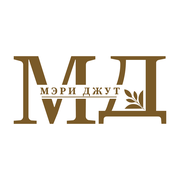
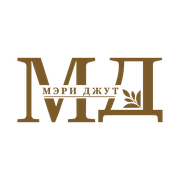
Let the admin mark a product as made to order or remove it.
In-stock items stay unmarked. A made-to-order item gets a badge on its card. The favicon is the logo with no background, and the about photo uses the new file.

Changed region(s): [[0.0556, 0.3056, 0.9444, 0.6944]]

diff --git a/src/components/site.tsx b/src/components/site.tsx
@@ -199,12 +199,12 @@ function ProductCard({ product = products[0] }: { product?: CatalogProduct }) {
     <article className={`product-card${soon ? " soon" : ""}`}>
       <Link href={href} className="product-image">
         <Image src={product.image} alt={product.name} fill sizes="(max-width: 700px) 50vw, 25vw" unoptimized />
-        {soon && <span className="product-badge">Скоро</span>}
+        {soon ? <span className="product-badge">Скоро</span> : product.onOrder ? <span className="product-badge order">Под заказ</span> : null}
       </Link>
       <button className={`heart ${liked ? "active" : ""}`} onClick={() => toggleFavorite({ id: product.id, name: product.name, price, image: product.image })} aria-label="Добавить в избранное" aria-pressed={liked}><Heart /></button>
       <div className="product-copy">
         <Link href={href}><h3>{product.name}</h3></Link>
-        <p>{soon ? "Коллекция готовится к публикации" : "Натуральный джут · в наличии"}</p>
+        <p>{soon ? "Коллекция готовится к публикации" : product.onOrder ? "Натуральный джут · под заказ" : "Натуральный джут · в наличии"}</p>
         <div className="product-bottom">
           {soon ? <strong>Скоро в каталоге</strong> : <strong>{formatPrice(price)}</strong>}
           {!soon && <button onClick={() => { addToCart(toCartItem(product)); setAdded(true); }}><span>{added ? "Добавлено" : "В корзину"}</span><ShoppingBag /></button>}
@@ -290,10 +290,7 @@ export function HomePage() {
         </div>
       </section>
       <section className="shell promo">
-        <picture className="cover-photo">
-          <source media="(max-width: 900px)" srcSet="/images/workshop.jpg" />
-          <img src="/images/workshop-desktop.jpg" alt="Пошив ковра из джутового каната" />
-        </picture>
+        <Image src="/images/workshop.png" alt="Пошив ковра из джутового каната" fill sizes="100vw" unoptimized />
         <div><small>За кулисами производства</small><p>Наши изделия рождаются<br />с любовью к деталям</p><span>Посмотрите, как создаётся натуральный уют</span><Button variant="secondary" render={<Link href="/about" />}>Смотреть историю <ArrowRight /></Button></div>
         <Link className="play-button" href="/about" aria-label="Смотреть историю компании">▶</Link>
       </section>
@@ -550,6 +547,7 @@ export function ProductPage({ slug }: { slug: string }) {
         <div className="gallery">
           <div className="main-image">
             <Image src={image} alt={product.name} fill priority sizes="(max-width: 700px) 100vw, 520px" unoptimized />
+            {!comingSoon && product.onOrder && <span className="product-badge order">Под заказ</span>}
             {gallery.length > 1 && (
               <>
                 <button type="button" className="gallery-nav prev" onClick={() => setImageIndex((gallery.length + imageIndex - 1) % gallery.length)} aria-label="Предыдущее фото"><ArrowLeft /></button>
@@ -641,7 +639,7 @@ export function AboutPage() {
   const preview = portfolioPhotos.slice(0, 6);
   return (
     <Page>
-      <section className="page-hero about-hero"><picture className="cover-photo"><source media="(max-width: 900px)" srcSet="/images/workshop.jpg" /><img src="/images/workshop-desktop.jpg" alt="Пошив ковра из джутового каната" /></picture><div className="hero-shade" /><div className="shell"><p>Главная / О нас</p><h1>О нас</h1><span>История, которая началась со школьного проекта</span></div></section>
+      <section className="page-hero about-hero"><Image src="/images/workshop.png" alt="Пошив ковра из джутового каната" fill priority unoptimized /><div className="hero-shade" /><div className="shell"><p>Главная / О нас</p><h1>О нас</h1><span>История, которая началась со школьного проекта</span></div></section>
       <article className="shell about-story">
         <p className="eyebrow">Алёна и Стася</p>
         <h2>Мэри Джут — история, которая началась со школьного проекта</h2>

diff --git a/src/components/admin/catalog-editor.tsx b/src/components/admin/catalog-editor.tsx
@@ -32,6 +32,7 @@ function blankProduct(category: string): EditableProduct {
     sizeLabel: "",
     comingSoon: false,
     featured: false,
+    onOrder: false,
     builtIn: false,
   };
 }
@@ -123,6 +124,7 @@ export function CatalogEditor() {
         sizeLabel: draft.sizeLabel,
         comingSoon: draft.comingSoon,
         featured: draft.featured,
+        onOrder: draft.onOrder,
       };
       const data = creating
         ? await api("/api/admin/catalog", { method: "POST", body: JSON.stringify({ action: "product", ...payload }) })
@@ -172,6 +174,24 @@ export function CatalogEditor() {
     }
   }
 
+  async function deleteProduct() {
+    if (!draft || creating) return;
+    if (!window.confirm(`Удалить «${draft.name}»? Товар пропадёт с сайта.`)) return;
+    setBusy(true);
+    setError("");
+    setMessage("");
+    try {
+      const data = await api("/api/admin/catalog", { method: "POST", body: JSON.stringify({ action: "delete-product", id: draft.id }) });
+      applyRecords(data);
+      setDraft(null);
+      setMessage("Товар удалён.");
+    } catch (err) {
+      setError(err instanceof Error ? err.message : "Не удалось удалить товар");
+    } finally {
+      setBusy(false);
+    }
+  }
+
   if (!ready) return <p className="admin-empty">Открываем карточки…</p>;
 
   return (
@@ -198,7 +218,7 @@ export function CatalogEditor() {
             <img src={item.images[0]} alt="" />
             <b>{item.name}</b>
             <span>Артикул {item.slug}</span>
-            <span>{item.category}{item.comingSoon ? " · скоро" : ""}</span>
+            <span>{item.category}{item.comingSoon ? " · скоро" : ""}{item.onOrder ? " · под заказ" : ""}</span>
             <strong>{item.price ? `${item.price.toLocaleString("ru-RU")} ₽` : "—"}</strong>
           </button>
         ))}
@@ -237,8 +257,13 @@ export function CatalogEditor() {
           <label>Описание<textarea value={draft.description} onChange={event => setDraft({ ...draft, description: event.target.value })} /></label>
           <label className="admin-check"><input type="checkbox" checked={draft.featured} onChange={event => setDraft({ ...draft, featured: event.target.checked })} />Показывать в «Популярных товарах»</label>
           <label className="admin-check"><input type="checkbox" checked={draft.comingSoon} onChange={event => setDraft({ ...draft, comingSoon: event.target.checked })} />Пока не продаётся</label>
+          <div className="admin-stock">
+            <label className="admin-check"><input type="radio" name="stock" checked={!draft.onOrder} onChange={() => setDraft({ ...draft, onOrder: false })} />В наличии</label>
+            <label className="admin-check"><input type="radio" name="stock" checked={draft.onOrder} onChange={() => setDraft({ ...draft, onOrder: true })} />Под заказ</label>
+          </div>
           <div className="admin-actions">
             <button type="submit" disabled={busy}>{creating ? "Добавить товар" : "Сохранить"}</button>
+            {!creating && <button type="button" className="danger" disabled={busy} onClick={deleteProduct}>Удалить товар</button>}
             <button type="button" className="ghost" onClick={() => { setDraft(null); setCreating(false); }}>Закрыть</button>
           </div>
         </form>

diff --git a/src/lib/catalog-records.ts b/src/lib/catalog-records.ts
@@ -19,6 +19,7 @@ export type CatalogPatch = {
   sizeLabel: string;
   comingSoon: boolean;
   featured: boolean;
+  onOrder: boolean;
 };
 
 export type CreatedProductRecord = CatalogPatch & {
@@ -35,6 +36,7 @@ export type CatalogRecords = {
   edits: Record<string, CatalogPatch>;
   created: CreatedProductRecord[];
   categories: ExtraCategory[];
+  deleted: string[];
 };
 
 export type EditableProduct = CreatedProductRecord & {
@@ -57,7 +59,7 @@ const LETTERS: Record<string, string> = {
 };
 
 export function emptyCatalog(): CatalogRecords {
-  return { edits: {}, created: [], categories: [] };
+  return { edits: {}, created: [], categories: [], deleted: [] };
 }
 
 export function slugify(value: string) {
@@ -131,6 +133,7 @@ export function parsePatch(body: unknown): { ok: true; value: CatalogPatch } | {
       sizeLabel: cleanText(source.sizeLabel, 80),
       comingSoon: source.comingSoon === true,
       featured: source.featured === true,
+      onOrder: source.onOrder === true,
     },
   };
 }
@@ -167,7 +170,14 @@ export function normalizeCatalog(value: unknown): CatalogRecords {
       categories.push({ name, slug });
     }
   }
-  return { edits, created, categories };
+  const deleted: string[] = [];
+  if (Array.isArray(source.deleted)) {
+    for (const item of source.deleted) {
+      const id = cleanText(item, 80);
+      if (id && !id.includes("..") && !deleted.includes(id)) deleted.push(id);
+    }
+  }
+  return { edits, created, categories, deleted };
 }
 
 function applyPatch(product: CatalogProduct, patch?: CatalogPatch): CatalogProduct {
@@ -181,6 +191,7 @@ function applyPatch(product: CatalogProduct, patch?: CatalogPatch): CatalogProdu
     sizeLabel: patch.sizeLabel,
     comingSoon: patch.comingSoon,
     featured: patch.featured,
+    onOrder: patch.onOrder,
     specs: { ...product.specs, ...patch.specs },
     images: patch.images,
     image: patch.images[0] || product.image,
@@ -206,6 +217,7 @@ function fromCreated(item: CreatedProductRecord): CatalogProduct {
     reviews: [],
     featured: item.featured,
     comingSoon: item.comingSoon,
+    onOrder: item.onOrder,
   };
 }
 
@@ -215,10 +227,11 @@ export function baseProducts() {
 
 export function mergeCatalog(records: CatalogRecords) {
   const catalog = normalizeCatalog(records);
+  const removed = new Set(catalog.deleted);
   const all = [
     ...baseProducts().map(product => applyPatch(product, catalog.edits[product.id])),
     ...catalog.created.map(fromCreated),
-  ];
+  ].filter(product => !removed.has(product.id));
   const sale = all.filter(product => !product.comingSoon);
   const featured = sale.filter(product => product.featured);
   const slugByName = new Map<string, string>(Object.entries(categorySlugs));
@@ -257,6 +270,7 @@ export function mergeCatalog(records: CatalogRecords) {
     sizeLabel: product.sizeLabel,
     comingSoon: Boolean(product.comingSoon),
     featured: Boolean(product.featured),
+    onOrder: Boolean(product.onOrder),
     builtIn: baseProducts().some(item => item.id === product.id),
   }));
   return {

diff --git a/src/app/globals.css b/src/app/globals.css
@@ -413,6 +413,7 @@ body { background:#f7f3eb; }
 .product-card:hover { transform:translateY(-4px); box-shadow:0 16px 36px #35271818; }
 .product-image { height:auto; border-radius:11px; margin:7px 7px 0; }
 .product-badge { position:absolute; left:12px; top:12px; z-index:2; border-radius:20px; background:#f7f1e8e8; color:#4e4337; padding:7px 10px; font-size:8px; text-transform:uppercase; letter-spacing:.08em; }
+.product-badge.order { font-size:11px; letter-spacing:.06em; padding:8px 12px; background:#173d28; color:#f7f1e8; }
 .product-card .heart { top:18px; right:18px; box-shadow:0 4px 12px #0001; }
 .product-copy { padding:11px 17px 17px; }
 .product-rating { display:flex; align-items:center; gap:7px; font-size:9px; margin-bottom:5px; }
@@ -485,8 +486,6 @@ body { background:#f7f3eb; }
 .brand-logo-on-dark { display: none; }
 .footer .brand-logo:not(.brand-logo-on-dark) { display: none; }
 .footer .brand-logo-on-dark { display: block; }
-.cover-photo { position: absolute; inset: 0; }
-.cover-photo img { width: 100%; height: 100%; object-fit: cover; }
 .socials { display:flex; gap:8px; margin-top:8px; }
 .socials a { width:30px; height:30px; display:grid; place-items:center; border:1px solid #ffffff2a; border-radius:50%; font-size:8px!important; }
 .footer-contact > a { font-size:13px!important; color:#fff!important; }

diff --git a/src/app/api/admin/catalog/route.ts b/src/app/api/admin/catalog/route.ts
@@ -80,6 +80,28 @@ export async function POST(request: Request) {
     return NextResponse.json({ ok: true, ...saved });
   }
 
+  if (action === "delete-product") {
+    const id = typeof body?.id === "string" ? body.id.trim() : "";
+    if (!id || id.includes("..")) return NextResponse.json({ ok: false, error: "Нет товара" }, { status: 400 });
+    let error = "";
+    const saved = await withStore(store => {
+      const records = catalogOf(store);
+      const createdIndex = records.created.findIndex(product => product.id === id);
+      if (createdIndex >= 0) records.created.splice(createdIndex, 1);
+      else if (baseProducts().some(product => product.id === id)) {
+        if (!records.deleted.includes(id)) records.deleted.push(id);
+      } else {
+        error = "Товар не найден";
+        return records;
+      }
+      delete records.edits[id];
+      store.catalog = records;
+      return records;
+    });
+    if (error) return NextResponse.json({ ok: false, error }, { status: 400 });
+    return NextResponse.json({ ok: true, ...saved });
+  }
+
   if (action === "delete-category") {
     const slug = typeof body?.slug === "string" ? body.slug.trim() : "";
     let error = "";

diff --git a/src/app/admin/admin.css b/src/app/admin/admin.css
@@ -99,6 +99,7 @@ body:has(.admin-app), body:has(.admin-login) { overflow:auto; }
 .admin-upload input { display:none; }
 .admin-spec-grid { display:grid; grid-template-columns:1fr 1fr; gap:10px; }
 .admin-check { flex-direction:row !important; align-items:center; gap:8px; font-size:13px !important; }
+.admin-stock { display:flex; gap:18px; flex-wrap:wrap; }
 @keyframes admin-pulse { 50% { transform:scale(1.08); box-shadow:0 0 0 6px #d24b3a33; } }
 @media (max-width:980px) {
   .admin-app { grid-template-columns:1fr; }

diff --git a/src/lib/admin/types.ts b/src/lib/admin/types.ts
@@ -75,6 +75,7 @@ export type CatalogPatch = {
   sizeLabel: string;
   comingSoon: boolean;
   featured: boolean;
+  onOrder: boolean;
 };
 
 export type CreatedProductRecord = CatalogPatch & {
@@ -91,6 +92,7 @@ export type CatalogRecords = {
   edits: Record<string, CatalogPatch>;
   created: CreatedProductRecord[];
   categories: ExtraCategory[];
+  deleted: string[];
 };
 
 export type AdminStore = {

diff --git a/src/lib/products.ts b/src/lib/products.ts
@@ -41,6 +41,7 @@ export type CatalogProduct = {
   wbUrl?: string;
   featured?: boolean;
   comingSoon?: boolean;
+  onOrder?: boolean;
 };
 
 export type CartProduct = {
